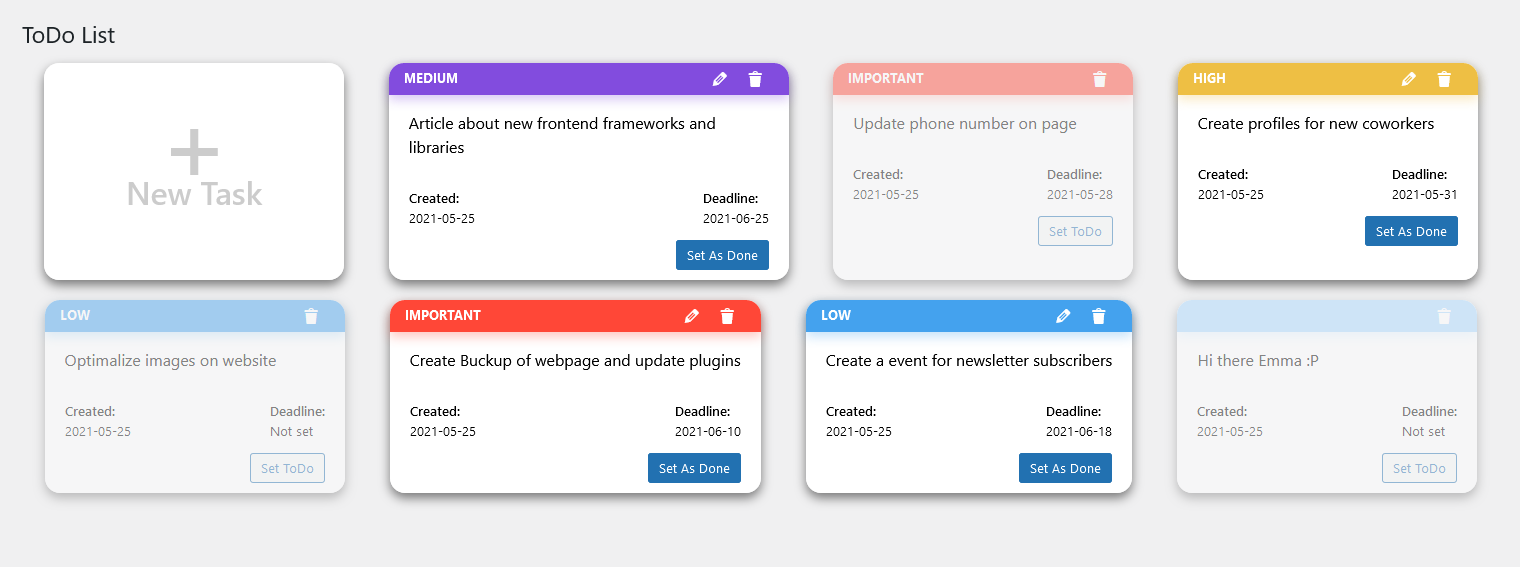
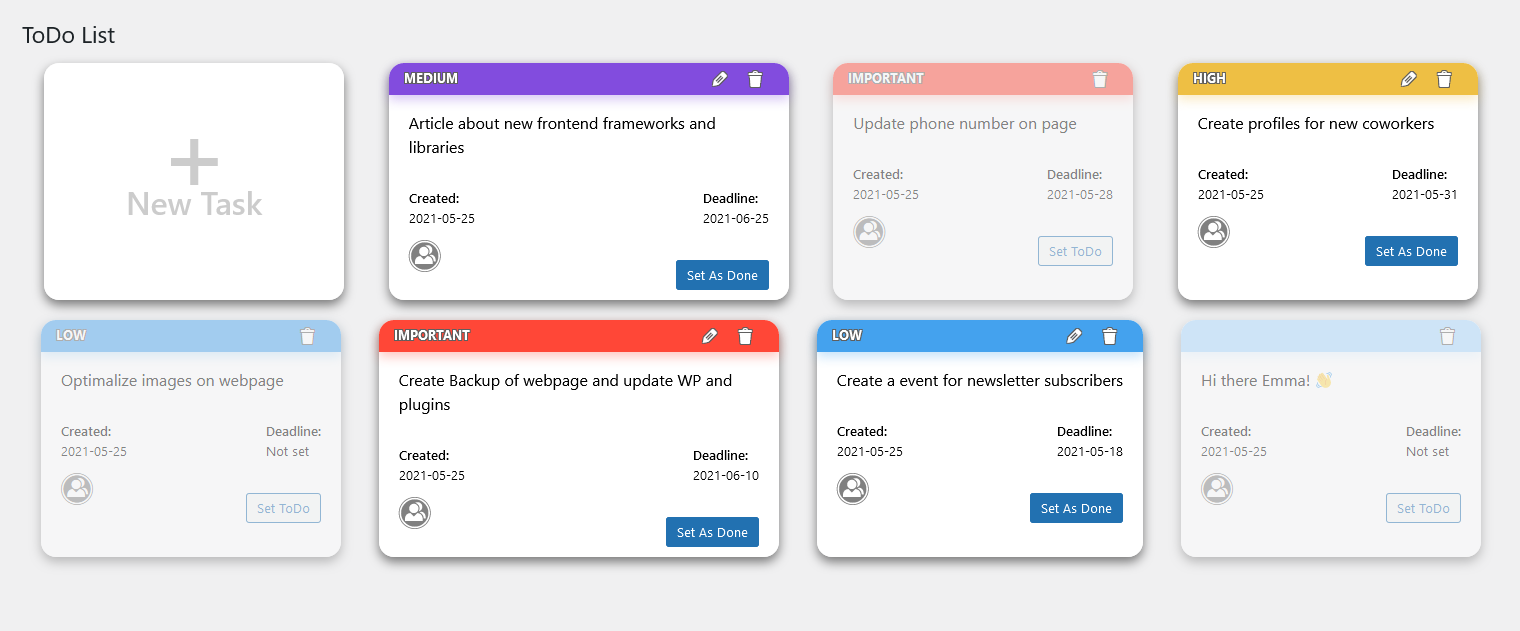
Content update v.1.1
Updated preview image and readme file content to fit with new update.

diff --git a/README.md b/README.md
@@ -7,7 +7,7 @@ It's my first WP plugin which I created. I hope to have time and ideas for updat
 If not reqruitment task probably I've never would to start to create my own plugin, it was really fun to create it and to  learn some new stuff too! :smiley:
 
 ## :zap: Installation
-Download project and add `todo-list` folder to your wordpress page to following localization: <br>
+Download project and add it to your wordpress page to following localization: <br>
 `/wp-content/plugins`
 
 After that go to your WordPress admin panel and in `Plugins` section, then just activate plugin called `ToDo List`.<br>
@@ -19,7 +19,7 @@ Roles like admin, author, contributor and editor can had access to plugin tab.
 
 Adding new task:
 - Press big button "New Task"
-- Type task name (Required), set deadline date, select task priority level
+- Type task name (required), set deadline date, select task priority level and chose who would to do this task (required)
 - Press "Add Task" button
 
 Edit task:
@@ -35,6 +35,8 @@ Delete task:
 Set task as done:
 - Press "Set as Done" button on task.
 > :memo: NOTE: You can "undone" task by pressing "Set ToDo" button.
+
+Hovering over icon on bottom left on task show you all contributers which are set for task.
 
 ## Author
 - Marcel Moś - Developer
